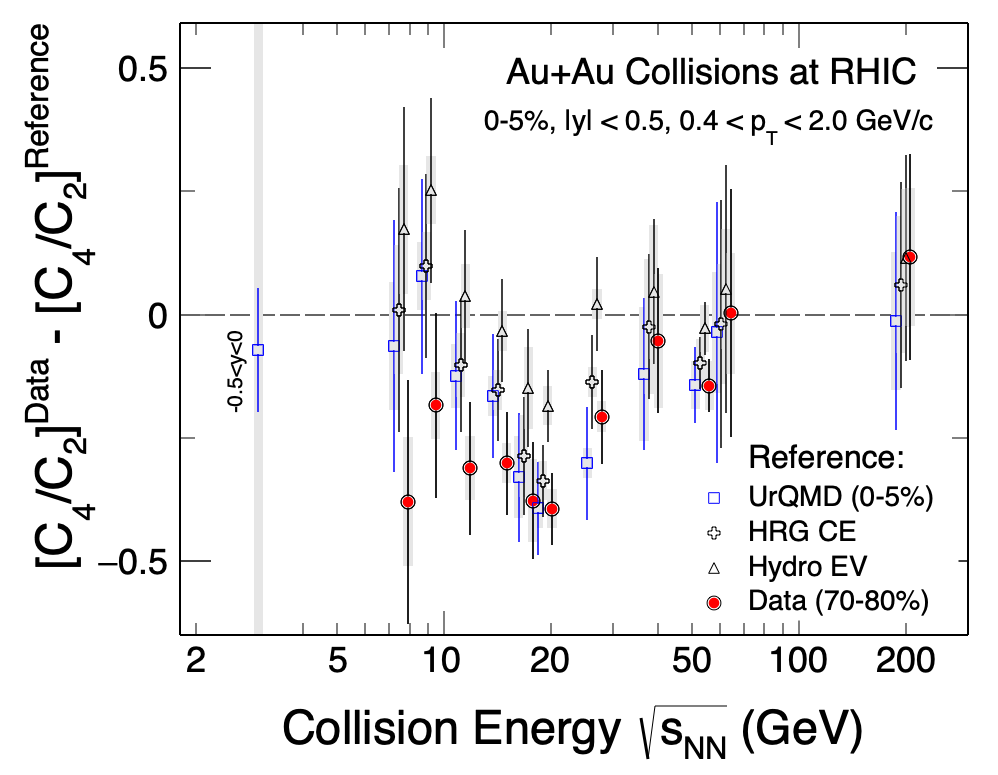
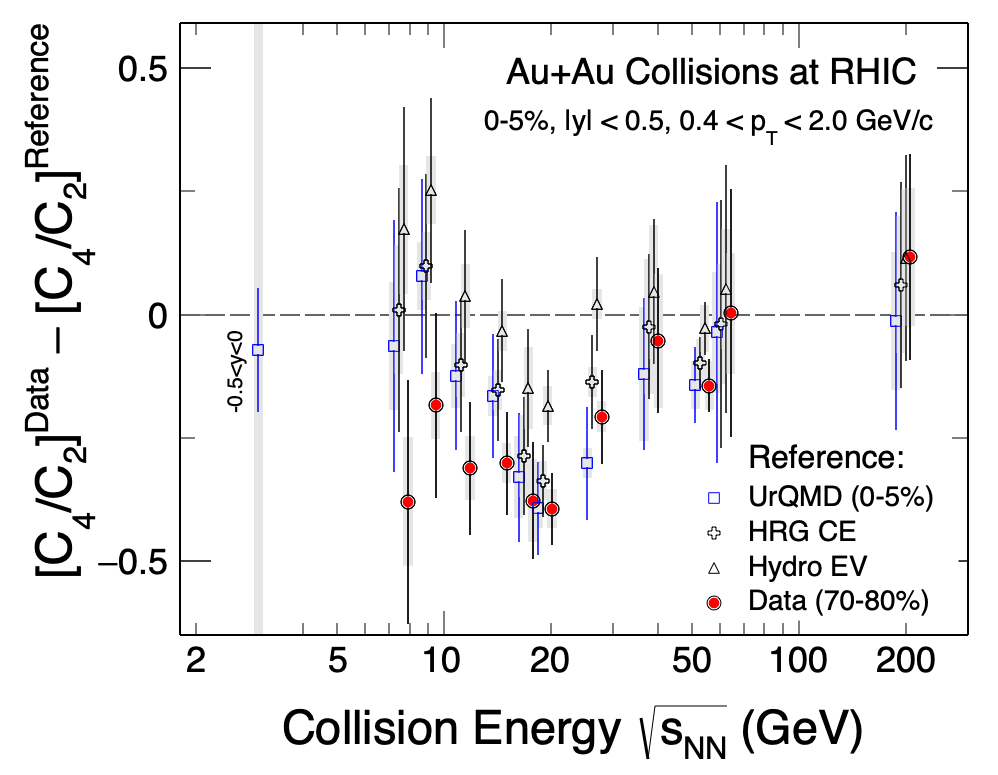
cosmetic change to diff figure

Changed region(s): [[0.0, 0.4335, 0.0932, 0.7432]]

diff --git a/NetProtonMoments/plotDiffOnePaper.C b/NetProtonMoments/plotDiffOnePaper.C
@@ -199,7 +199,7 @@ void plotDiffOnePaper()
   d0->GetXaxis()->SetTitleOffset(1.2);  
   d0->GetXaxis()->SetTitleSize(0.065);  
   d0->GetYaxis()->SetNdivisions(405);  
-  d0->GetYaxis()->SetTitle("[C_{4}/C_{2}]^{Data} - [C_{4}/C_{2}]^{Reference}");  
+  d0->GetYaxis()->SetTitle("[C_{4}/C_{2}]^{Data} #minus [C_{4}/C_{2}]^{Reference}");  
   //  d0->GetYaxis()->SetTitle("R_{42}^{data} / R_{42}^{model}");  
   d0->GetYaxis()->SetTitleOffset(1.1);  
   d0->GetYaxis()->SetTitleSize(0.068);  
